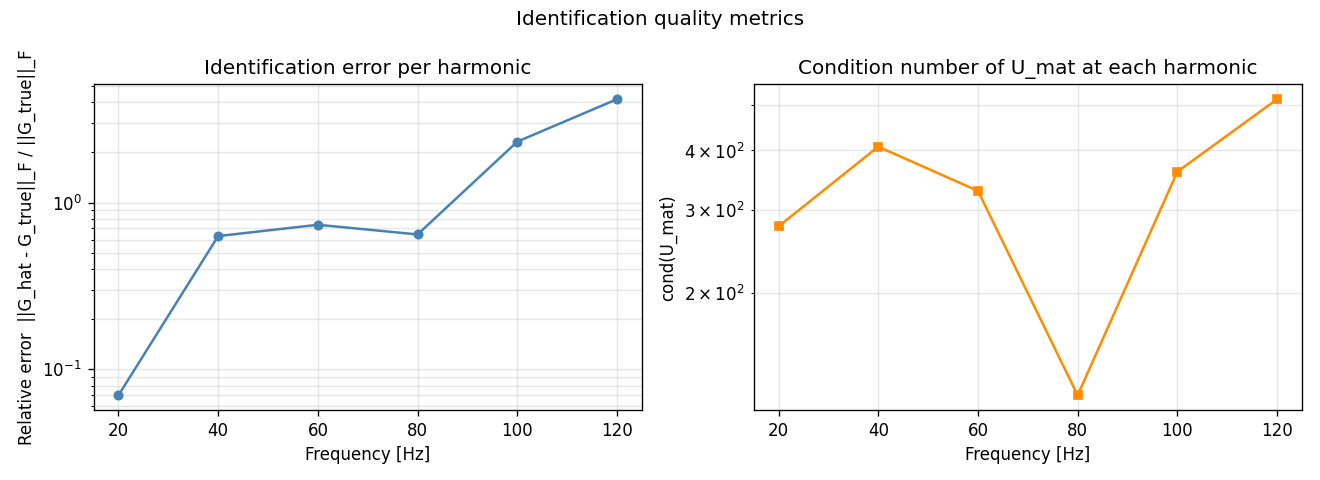
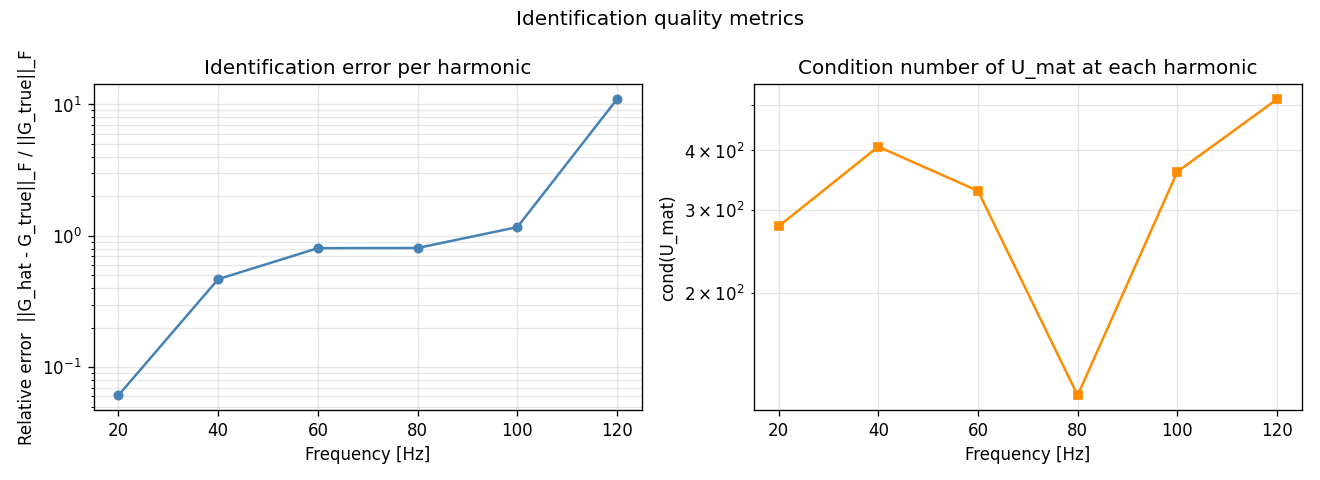
added lstqs and bin

diff --git a/identify.py b/identify.py
@@ -10,7 +10,8 @@ import matplotlib.pyplot as plt
 DOF_LABELS = ["x1", "x2", "x3", "thx", "thy", "thz"]
 
 
-def identify_G(U_freq_list, Y_freq_list, freq, Omega, n_harmonics):
+def identify_G(U_freq_list, Y_freq_list, freq, Omega, n_harmonics,
+               n_avg_bins=5, bw_ratio=None):
     """
     高調波周波数における伝達行列 G_hat(ω_n) を同定する。
 
@@ -21,6 +22,10 @@ def identify_G(U_freq_list, Y_freq_list, freq, Omega, n_harmonics):
     freq        : ndarray, shape (N_freq,)      周波数軸 [Hz]
     Omega       : float                          RW 基本角速度 [rad/s]
     n_harmonics : int                            高調波次数の最大値
+    n_avg_bins  : int, optional                  ビン平均するビン数（デフォルト=1、平均なし）
+                                                 bw_ratio 未指定時に使用。
+    bw_ratio    : float or None, optional        帯域幅を周波数の比率で指定（帯域 = fh × bw_ratio）。
+                                                 設定した場合は n_avg_bins より優先。
 
     Returns
     -------
@@ -30,6 +35,7 @@ def identify_G(U_freq_list, Y_freq_list, freq, Omega, n_harmonics):
     harm_idx   : ndarray, shape (n_harmonics,)     対応する周波数ビン番号
     """
     f0 = Omega / (2 * np.pi)
+    df = freq[1] - freq[0]
     harm_freqs = np.array([n * f0 for n in range(1, n_harmonics + 1)])
     harm_idx = np.array([np.argmin(np.abs(freq - fh)) for fh in harm_freqs])
 
@@ -37,17 +43,28 @@ def identify_G(U_freq_list, Y_freq_list, freq, Omega, n_harmonics):
     cond_U = np.zeros(n_harmonics)
 
     for ni, (fh, ki) in enumerate(zip(harm_freqs, harm_idx)):
-        # 6×6 行列をスタック（各列が 1 配置の入力/出力ベクトル）
-        U_mat = np.column_stack([U[ki, :] for U in U_freq_list])   # (6, 6)
-        Y_mat = np.column_stack([Y[ki, :] for Y in Y_freq_list])   # (6, 6)
+        if bw_ratio is not None:
+            n_bins = max(1, int(np.round(fh * bw_ratio / df)))
+        else:
+            n_bins = n_avg_bins
 
-        cond_U[ni] = np.linalg.cond(U_mat)
+        half = n_bins // 2
+        k_lo = max(0, ki - half)
+        k_hi = min(len(freq), ki + half + 1)
 
-        # G_hat = Y_mat @ inv(U_mat)
-        # G_hat[ni] = Y_mat @ np.linalg.inv(U_mat)
-        # 数値安定性を考慮して np.linalg.solve を使用
-        # Y_mat = G_hat @ U_mat  ⟹  U_mat.T @ G_hat.T = Y_mat.T
-        G_hat[ni] = np.linalg.solve(U_mat.T, Y_mat.T).T
+        # 各ビンの 6×6 行列を横方向にスタック → (6, n_bins*6) の過決定系
+        U_stacked = np.hstack([
+            np.column_stack([U[k, :] for U in U_freq_list]) for k in range(k_lo, k_hi)
+        ])
+        Y_stacked = np.hstack([
+            np.column_stack([Y[k, :] for Y in Y_freq_list]) for k in range(k_lo, k_hi)
+        ])
+
+        cond_U[ni] = np.linalg.cond(U_stacked)
+
+        # G @ U_stacked = Y_stacked  ⟹  U_stacked.T @ G.T = Y_stacked.T
+        G_T, _, _, _ = np.linalg.lstsq(U_stacked.T, Y_stacked.T, rcond=None)
+        G_hat[ni] = G_T.T
 
     return G_hat, cond_U, harm_freqs, harm_idx
 
